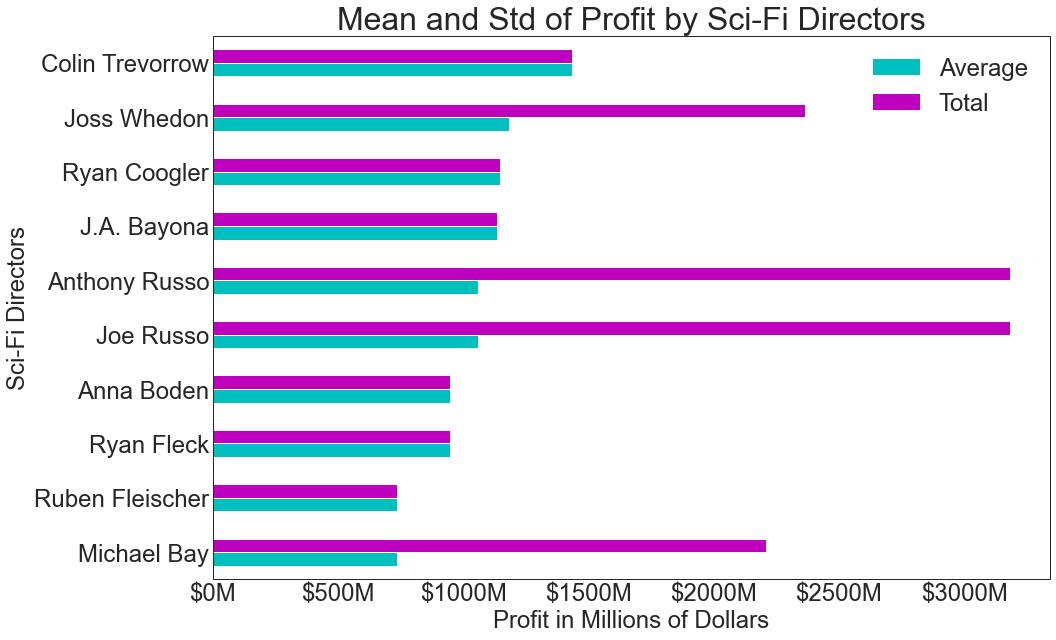
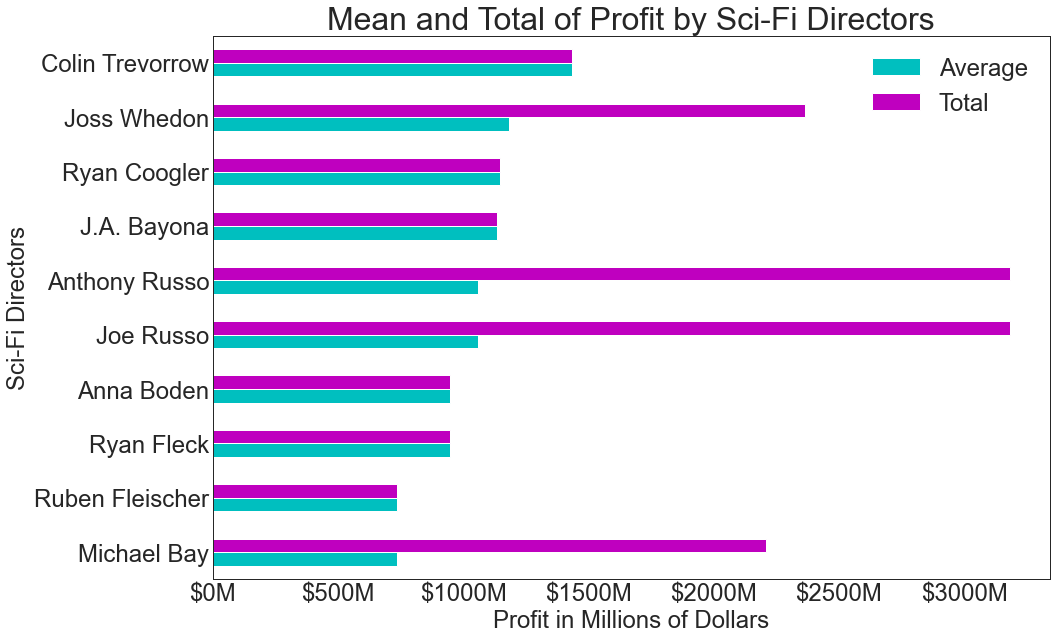
Fixed Typo in Viz

Changed region(s): [[0.3125, 0.0, 0.9062, 0.0625]]

diff --git a/code/visualizations.py b/code/visualizations.py
@@ -59,12 +59,15 @@ def plot_top_ten(df, column_name, y_label, save_name):
     """
     c = ['c', 'm']
     output_plot = df.sort_values(by=column_name).tail(10).plot.barh(color=c)
-    output_plot.set(xlabel="Profit in Millions of Dollars", ylabel=y_label,
-                    title="Mean and Std of Profit by {}".format(y_label))
+    
     if 'Std of Profit' in df.columns:
         output_plot.legend(['Average', 'Risk (std)'])
+        output_plot.set(xlabel="Profit in Millions of Dollars", ylabel=y_label,
+                    title="Mean and Std of Profit by {}".format(y_label))
     else:
         output_plot.legend(['Average', 'Total'])
+        output_plot.set(xlabel="Profit in Millions of Dollars", ylabel=y_label,
+                    title="Mean and Total of Profit by {}".format(y_label))
     output_plot.xaxis.set_major_formatter(mticker.FuncFormatter(ticks_to_money))
     plt.savefig(f'images/{save_name}.png')
     return output_plot
